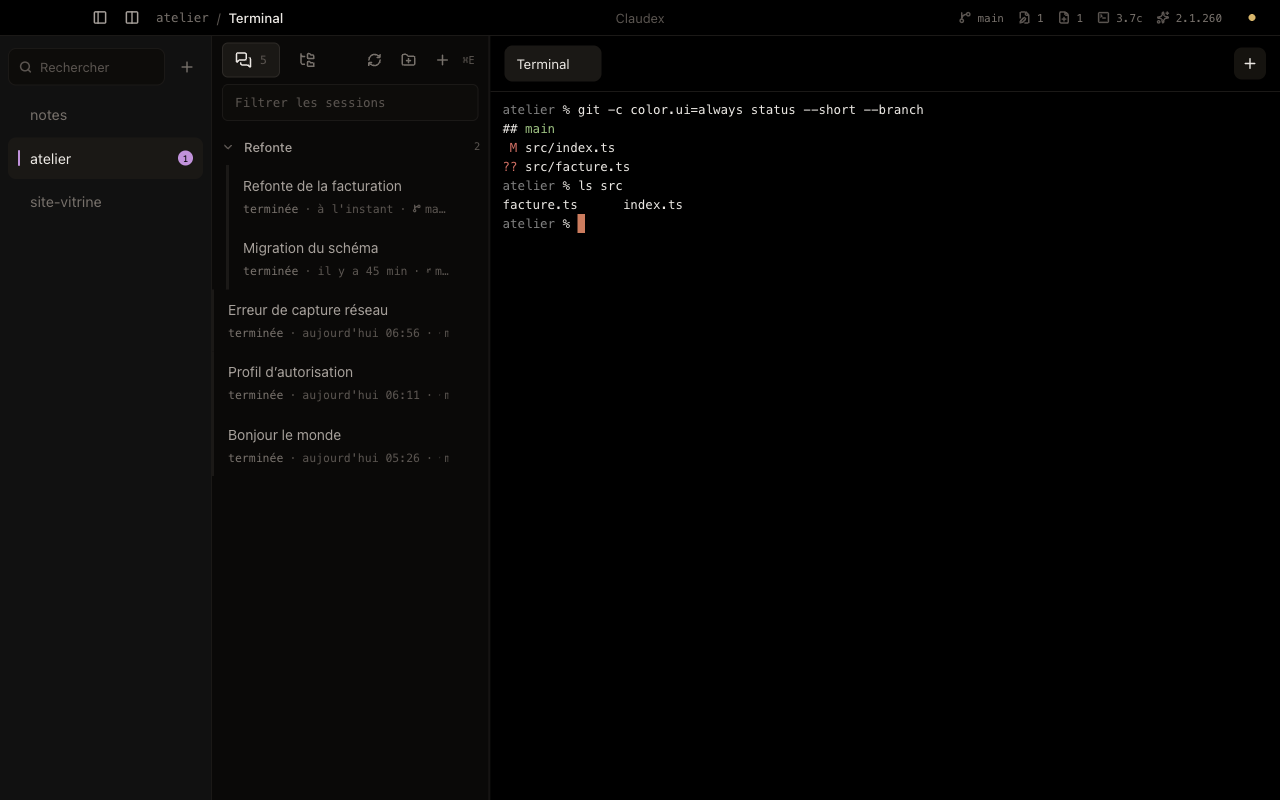
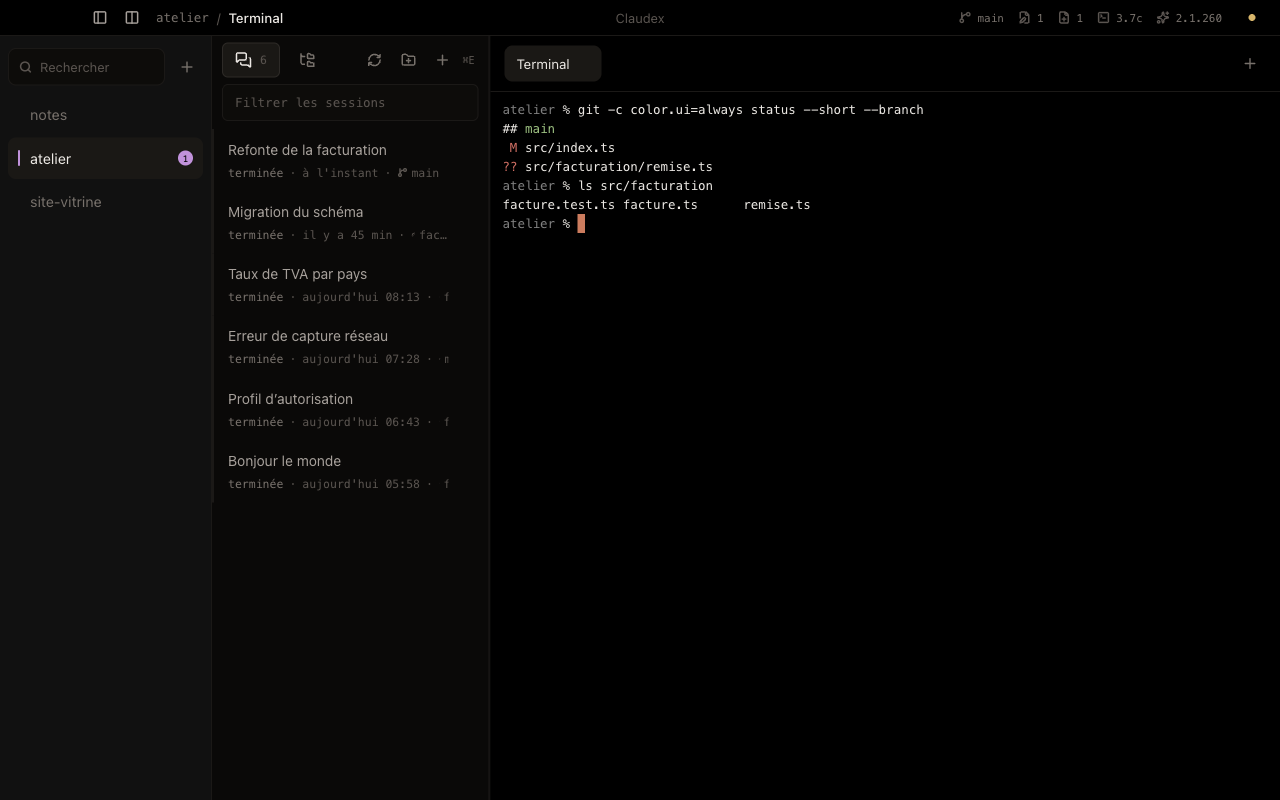
Montrer ce que l'application sait faire, écran par écran
Le README décrivait des fonctions qu'on ne voyait pas : une seule capture
pour tout, et le reste laissé à l'imagination.

Neuf captures maintenant, posées là où le texte en parle — les états d'une
conversation, la bifurcation, un groupe, le menu, un agent qui attend,
l'arborescence, l'aperçu, l'état de l'environnement.

Elles sont produites par un script, `scripts/vitrine.mjs`, qui fabrique
tout ce qu'il montre : un dépôt jetable, des conversations inventées, un
profil neuf, et l'invite du shell remplacée. Rien de ce qui est publié ne
doit dépendre de la machine qui l'a produit, ni en dire quoi que ce soit.

Changed region(s): [[0.1875, 0.1562, 0.3125, 0.625], [0.4688, 0.1875, 0.5625, 0.2812], [0.5938, 0.25, 0.625, 0.2812]]

diff --git a/README.md b/README.md
@@ -43,19 +43,52 @@ dossier exact — comme `/resume`, sans remonter celles des sous-dossiers. Un cl
 dans un nouvel onglet, avec tout son contexte. Rien n'est jamais remplacé ; si elle est déjà
 ouverte, on bascule sur son onglet.
 
+Chaque ligne dit où elle en est — celle qu'on a sous les yeux, celles qui patientent dans un
+autre onglet — avec sa branche git, sa date, l'étiquette qu'on lui a posée et l'étoile des
+favoris, qui passent en tête.
+
+![Les conversations et leurs états](docs/conversations.png)
+
 **Bifurquer.** Sur une conversation, l'icône de branche repart du même contexte sous un
 nouvel identifiant : deux pistes explorées en parallèle, l'originale intacte. Le nom que vous
 donnez est transmis à Claude Code, qui l'affichera aussi dans son propre sélecteur.
 
+![Bifurquer une conversation](docs/bifurcation.png)
+
 **Ranger.** Les conversations se déplacent à la souris, se réunissent en groupes nommés, et
-les groupes se déplacent aussi. Le clic droit fait la même chose sans viser : réunir, sortir
-du groupe, renommer, mettre en favori, étiqueter, écarter. Le classement se garde.
+les groupes se déplacent aussi, leur contenu avec eux. Tant qu'on n'a rien touché, la liste
+garde son ordre naturel ; dès qu'une conversation est rangée, elle garde sa place, et celles
+qui apparaissent ensuite passent devant.
+
+![Un groupe de conversations](docs/groupes.png)
+
+Le clic droit fait le même travail sans viser — et c'est le seul chemin au clavier.
+
+![Le menu d'une conversation](docs/menu.png)
 
 **Être prévenu.** Quand un agent demande une permission ou pose une question, il s'arrête et
 attend. Claudex peut le signaler : une main levée sur la conversation, sur son onglet et sur
 son projet, plus une notification du système quand la fenêtre n'a pas le focus. À activer une
-fois depuis l'écran d'état, la pastille en haut à droite → *Installer les notifications*.
+fois depuis l'écran d'état → *Installer les notifications*.
 Voir [ce que cela ajoute](#les-notifications-en-detail) plus bas.
+
+![Un agent qui attend une réponse](docs/attente.png)
+
+**Regarder les fichiers.** `⌘E` bascule la colonne sur l'arborescence du projet, avec les
+icônes du type de fichier et les dossiers ignorés par git mis en retrait.
+
+![L'arborescence du projet](docs/fichiers.png)
+
+Un clic ouvre un aperçu en lecture seule, coloré selon le langage. Claudex ne prétend pas
+remplacer votre éditeur : il donne à lire, pas à écrire.
+
+![L'aperçu d'un fichier](docs/apercu.png)
+
+**Vérifier l'installation.** La pastille en haut à droite ouvre l'état de l'environnement :
+tmux, Claude Code, la rétention des conversations et les notifications. Ce qui peut être
+corrigé d'un clic l'est depuis là.
+
+![L'état de l'environnement](docs/etat.png)
 
 **Raccourcis.**
 

diff --git a/DEVELOPPEMENT.md b/DEVELOPPEMENT.md
@@ -76,10 +76,15 @@ terminal, seule façon de vérifier que `node-pty` a survécu à l'archive asar.
 
 ```sh
 node scripts/essai-notification.mjs          # déclenche une notification comme le ferait un agent
+node scripts/vitrine.mjs docs                # regénère la galerie du README
 CLAUDEX_CAPTURE_PROJETS=~/code/a:~/code/b \
-  npm run captures                           # captures d'écran de l'application
+  npm run captures                           # captures sur de vrais projets
 npm run capture                              # capture par CDP, sans perturber la fenêtre
 ```
+
+`vitrine.mjs` fabrique tout ce qu'il montre — un dépôt jetable dans `/tmp/atelier`, des
+conversations inventées, un profil neuf — et remplace l'invite du shell : les captures du
+dépôt ne doivent rien devoir à la machine qui les produit.
 
 ## Points de vigilance
 
